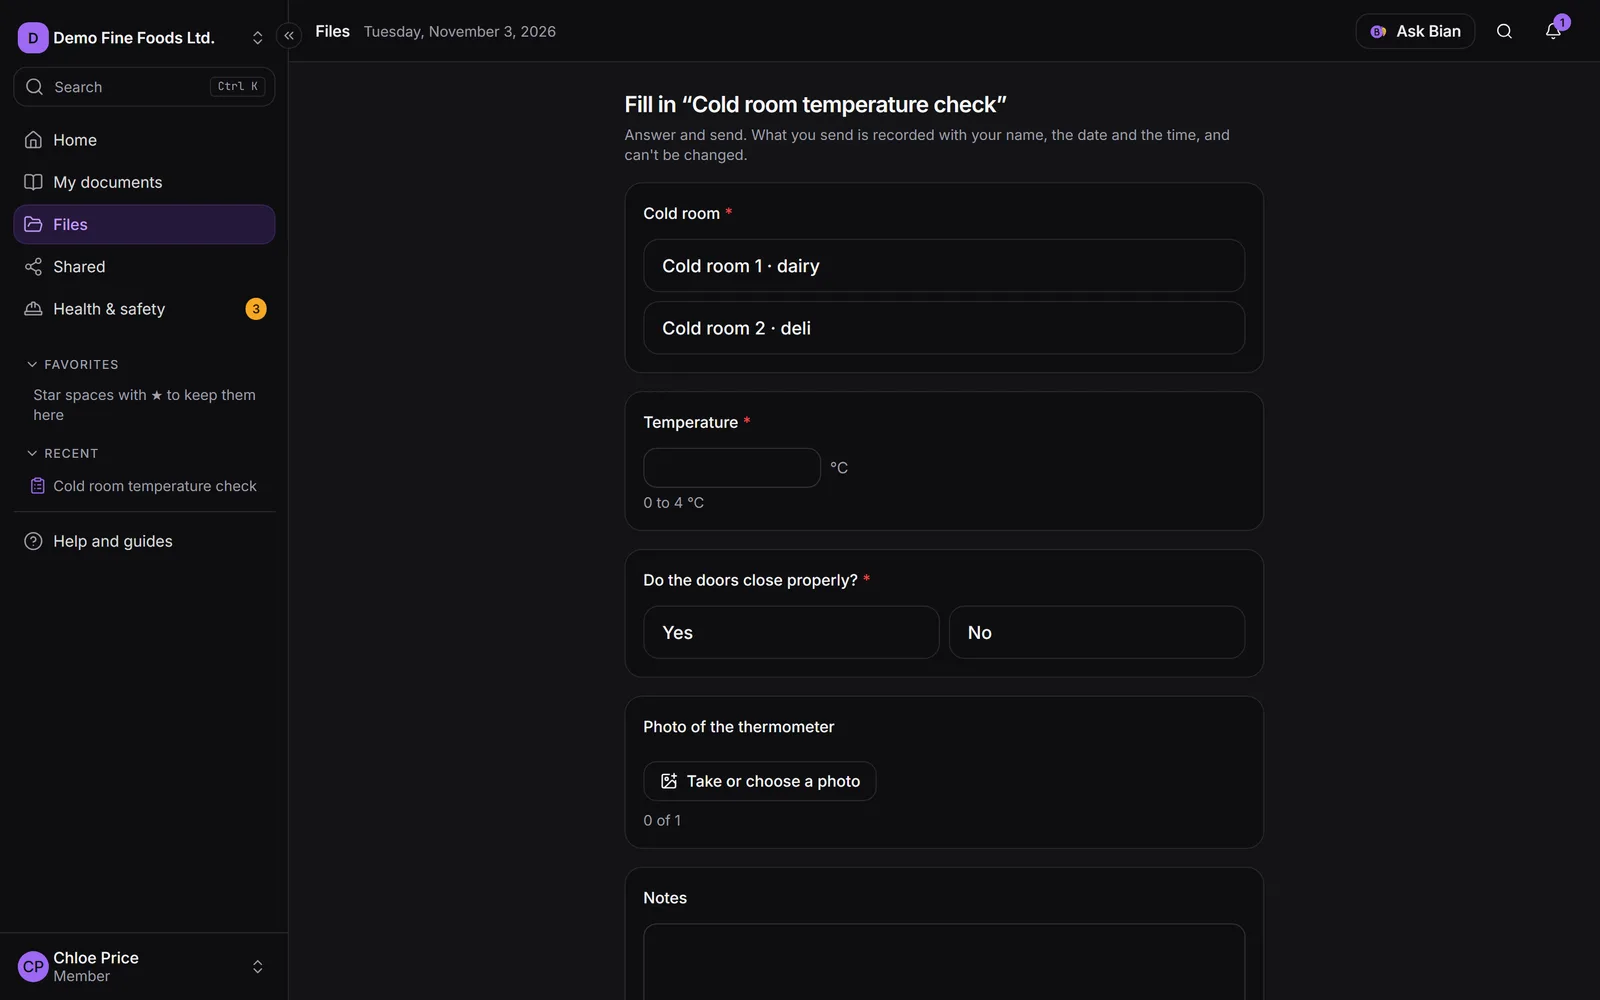
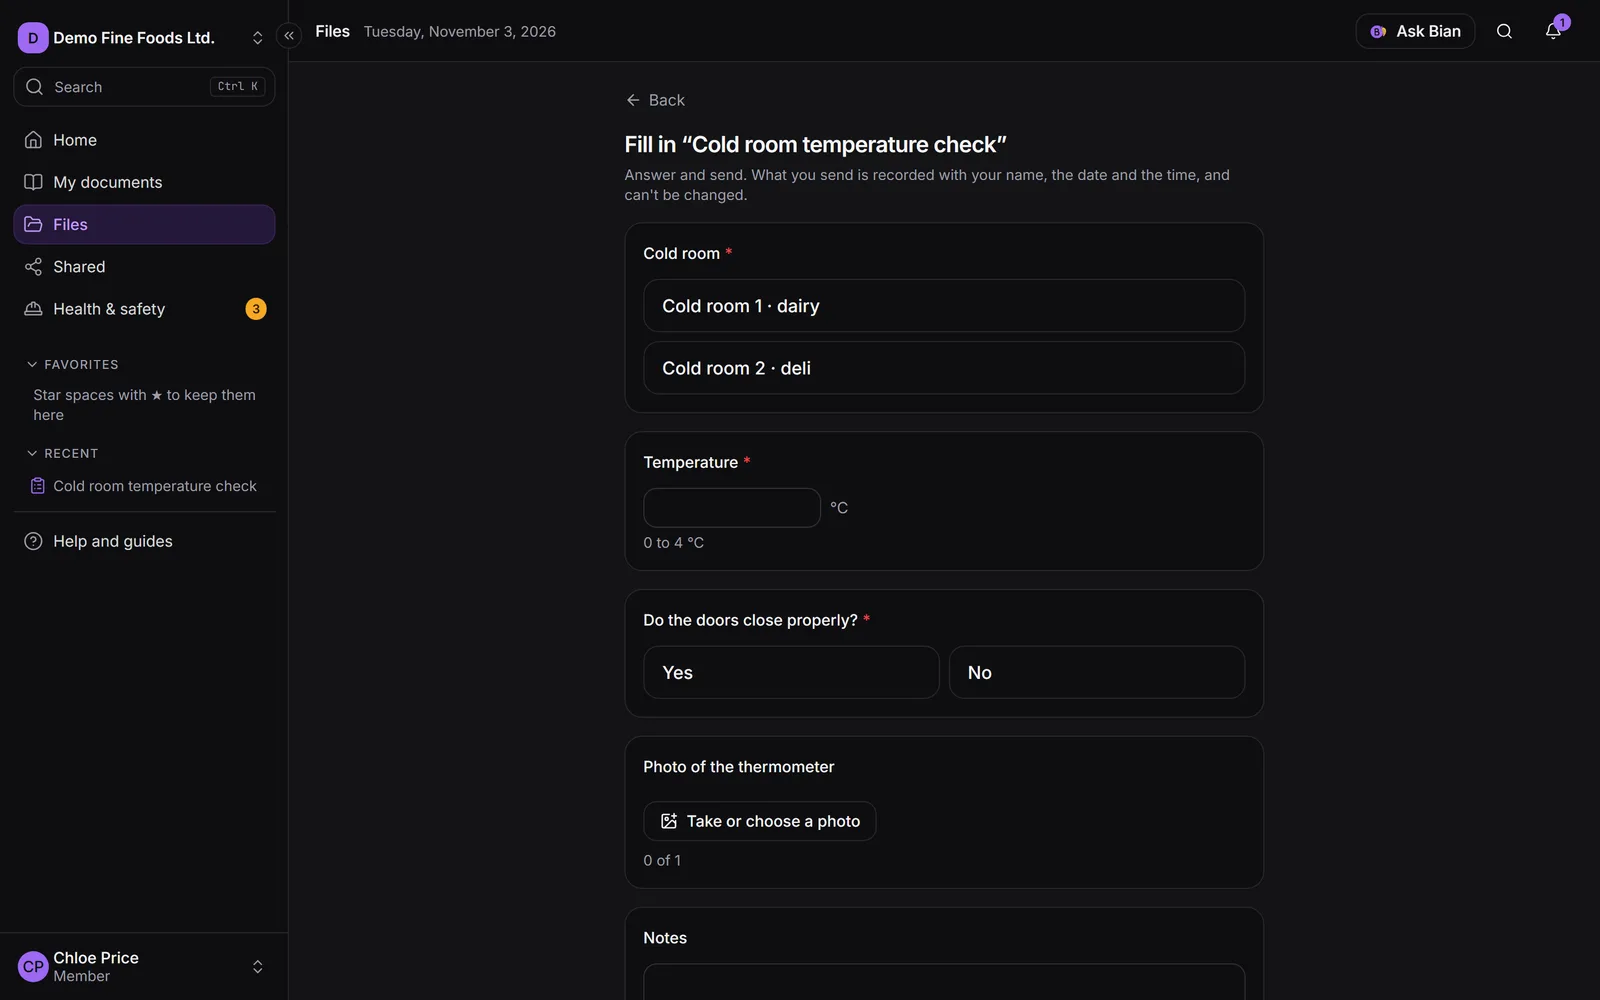
feat(forms): back and cancel while filling in, asking before losing answers

diff --git a/frontend/src/features/forms/form-fill-page.tsx b/frontend/src/features/forms/form-fill-page.tsx
@@ -4,11 +4,20 @@
 // metadata) and a signature drawn with a finger. What's out of range shows as it's typed; the server
 // checks everything again and works out what's non-conforming.
 import { useMutation, useQuery } from "@tanstack/react-query";
-import { CheckCircle2, ImagePlus, Loader2, ServerCrash, X } from "lucide-react";
-import { useMemo, useRef, useState } from "react";
-import { Link, useParams, useSearchParams } from "react-router";
+import {
+  AlertTriangle,
+  ArrowLeft,
+  CheckCircle2,
+  ImagePlus,
+  Loader2,
+  ServerCrash,
+  X,
+} from "lucide-react";
+import { useEffect, useMemo, useRef, useState } from "react";
+import { Link, useBlocker, useNavigate, useParams, useSearchParams } from "react-router";
 import { toast } from "sonner";
 import { Button } from "@/components/ui/button";
+import { ConfirmDialog } from "@/components/ui/confirm-dialog";
 import { Banner, Card, EmptyState, Skeleton } from "@/components/ui/display";
 import { Checkbox, Input, Textarea } from "@/components/ui/form";
 import { COMBO_PAGE_SIZE, Combobox, type ComboboxSource } from "@/components/ui/combobox";
@@ -42,11 +51,14 @@ export function FormFillPage({
   initial,
   timeFields = [],
   onDone,
+  backTo,
 }: {
   formId?: string;
   initial?: Record<string, Answer>;
   timeFields?: readonly string[];
   onDone?: (record: RecordView) => void;
+  /** Where «Volver» and «Cancelar» go (by default, the form's screen). */
+  backTo?: string;
 } = {}) {
   const { workspaceSlug = "", formId: routeForm = "" } = useParams();
   const formId = embeddedForm ?? routeForm;
@@ -86,6 +98,9 @@ export function FormFillPage({
       form={form.data}
       initial={initial ?? {}}
       timeFields={timeFields}
+      backTo={
+        backTo ?? `/app/${workspaceSlug}/files/${form.data.space.id}/form/${form.data.node.id}`
+      }
       onSent={onDone ?? setSent}
     />
   );
@@ -123,13 +138,33 @@ function Fill({
   form,
   initial,
   timeFields,
+  backTo,
   onSent,
 }: {
   form: FormDetail;
   initial: Record<string, Answer>;
   timeFields: readonly string[];
+  backTo: string;
   onSent: (record: RecordView) => void;
 }) {
+  const navigate = useNavigate();
+  // Once something was filled in, leaving asks first (in the app and when closing the tab).
+  const [touched, setTouched] = useState(false);
+  const leaving = useRef(false);
+  const blocker = useBlocker(
+    ({ currentLocation, nextLocation }) =>
+      touched && !leaving.current && currentLocation.pathname !== nextLocation.pathname,
+  );
+  useEffect(() => {
+    if (!touched) return;
+    const warn = (event: BeforeUnloadEvent) => {
+      event.preventDefault();
+    };
+    window.addEventListener("beforeunload", warn);
+    return () => {
+      window.removeEventListener("beforeunload", warn);
+    };
+  }, [touched]);
   const { workspaceSlug = "" } = useParams();
   const [params] = useSearchParams();
   const fields = form.template.fields;
@@ -176,6 +211,7 @@ function Fill({
       });
     },
     onSuccess: ({ record }) => {
+      leaving.current = true;
       onSent(record);
     },
     onError: (error) => {
@@ -222,6 +258,28 @@ function Fill({
 
   return (
     <div className="mx-auto grid w-full min-w-0 max-w-xl grid-cols-1 gap-4 pb-28">
+      <Link
+        to={backTo}
+        className="inline-flex w-fit items-center gap-1.5 text-sm text-muted-foreground hover:text-foreground"
+      >
+        <ArrowLeft className="size-4" aria-hidden="true" />
+        {t.back}
+      </Link>
+      <ConfirmDialog
+        open={blocker.state === "blocked"}
+        onOpenChange={(open) => {
+          if (!open && blocker.state === "blocked") blocker.reset();
+        }}
+        icon={AlertTriangle}
+        tone="warning"
+        title={t.leaveTitle}
+        description={t.leaveText}
+        confirmLabel={t.leave}
+        pendingLabel={t.leave}
+        onConfirm={() => {
+          if (blocker.state === "blocked") blocker.proceed();
+        }}
+      />
       <div>
         <h1 className="break-words text-xl font-semibold tracking-tight">
           {t.title(form.node.name)}
@@ -253,9 +311,11 @@ function Fill({
             value={answers[field.id]}
             photos={photos[field.id] ?? []}
             onChange={(value) => {
+              setTouched(true);
               set(field.id, value);
             }}
             onPhotos={(update) => {
+              setTouched(true);
               setPhotos((current) => ({ ...current, [field.id]: update(current[field.id] ?? []) }));
               set(field.id, undefined);
             }}
@@ -272,10 +332,20 @@ function Fill({
       ))}
       {fields.length > 0 && (
         <div className="fixed inset-x-0 bottom-0 z-20 border-t border-border bg-background/95 p-3 backdrop-blur lg:static lg:border-0 lg:bg-transparent lg:p-0">
-          <div className="mx-auto max-w-xl">
+          <div className="mx-auto flex max-w-xl gap-2">
             <Button
               size="lg"
-              className="w-full"
+              variant="outline"
+              disabled={submit.isPending}
+              onClick={() => {
+                void navigate(backTo);
+              }}
+            >
+              {t.cancel}
+            </Button>
+            <Button
+              size="lg"
+              className="flex-1"
               disabled={submit.isPending || uploading}
               onClick={() => {
                 void checkRequired().then((missing) => {

diff --git a/frontend/src/features/safety/report-page.tsx b/frontend/src/features/safety/report-page.tsx
@@ -2,9 +2,8 @@
 // (docs/spec/seguridad-salud.md): the base form, with today and the time now already filled in; once sent
 // it goes back to where the person came from.
 import { useQuery } from "@tanstack/react-query";
-import { ArrowLeft } from "lucide-react";
 import { useMemo } from "react";
-import { Link, useLocation, useNavigate, useParams } from "react-router";
+import { useLocation, useNavigate, useParams } from "react-router";
 import { toast } from "sonner";
 import { Skeleton } from "@/components/ui/display";
 import { FormFillPage } from "@/features/forms/form-fill-page";
@@ -36,13 +35,6 @@ export function ReportPage() {
   }, []);
   return (
     <div className="grid gap-4">
-      <Link
-        to={from}
-        className="mx-auto inline-flex w-full max-w-xl items-center gap-1 text-sm text-muted-foreground hover:text-foreground"
-      >
-        <ArrowLeft className="size-4" aria-hidden="true" />
-        {texts.safety.back}
-      </Link>
       {form.data == null ? (
         <Skeleton className="mx-auto h-96 w-full max-w-xl" />
       ) : (
@@ -50,6 +42,7 @@ export function ReportPage() {
           formId={form.data.formId}
           initial={initial}
           timeFields={["sst_hora"]}
+          backTo={from}
           onDone={() => {
             toast.success(texts.safety.incidents.reported);
             void navigate(from);

diff --git a/frontend/src/i18n/en/forms.ts b/frontend/src/i18n/en/forms.ts
@@ -108,6 +108,11 @@ export const formsTexts: typeof es = {
   },
   qr: "The code opens the form to fill it in; it asks to sign in (a PIN works too). Print it and stick it where the form is filled in: the cold room, the machine, the door.",
   fill: {
+    back: "Back",
+    cancel: "Cancel",
+    leaveTitle: "Leave without sending?",
+    leaveText: "What you filled in on this form will be lost.",
+    leave: "Leave without sending",
     choosePerson: "Choose the person",
     open: "Fill in",
     title: (name: string) => `Fill in “${name}”`,

diff --git a/frontend/src/i18n/es/forms.ts b/frontend/src/i18n/es/forms.ts
@@ -106,6 +106,11 @@ export const formsTexts = {
   },
   qr: "El código abre el formulario para llenarlo; pide iniciar sesión (también con PIN). Imprímelo y pégalo donde se llena: la cámara, la máquina, la puerta.",
   fill: {
+    back: "Volver",
+    cancel: "Cancelar",
+    leaveTitle: "¿Salir sin enviar?",
+    leaveText: "Lo que completaste en este formulario se pierde.",
+    leave: "Salir sin enviar",
     choosePerson: "Elige a la persona",
     open: "Llenar",
     title: (name: string) => `Llenar «${name}»`,
